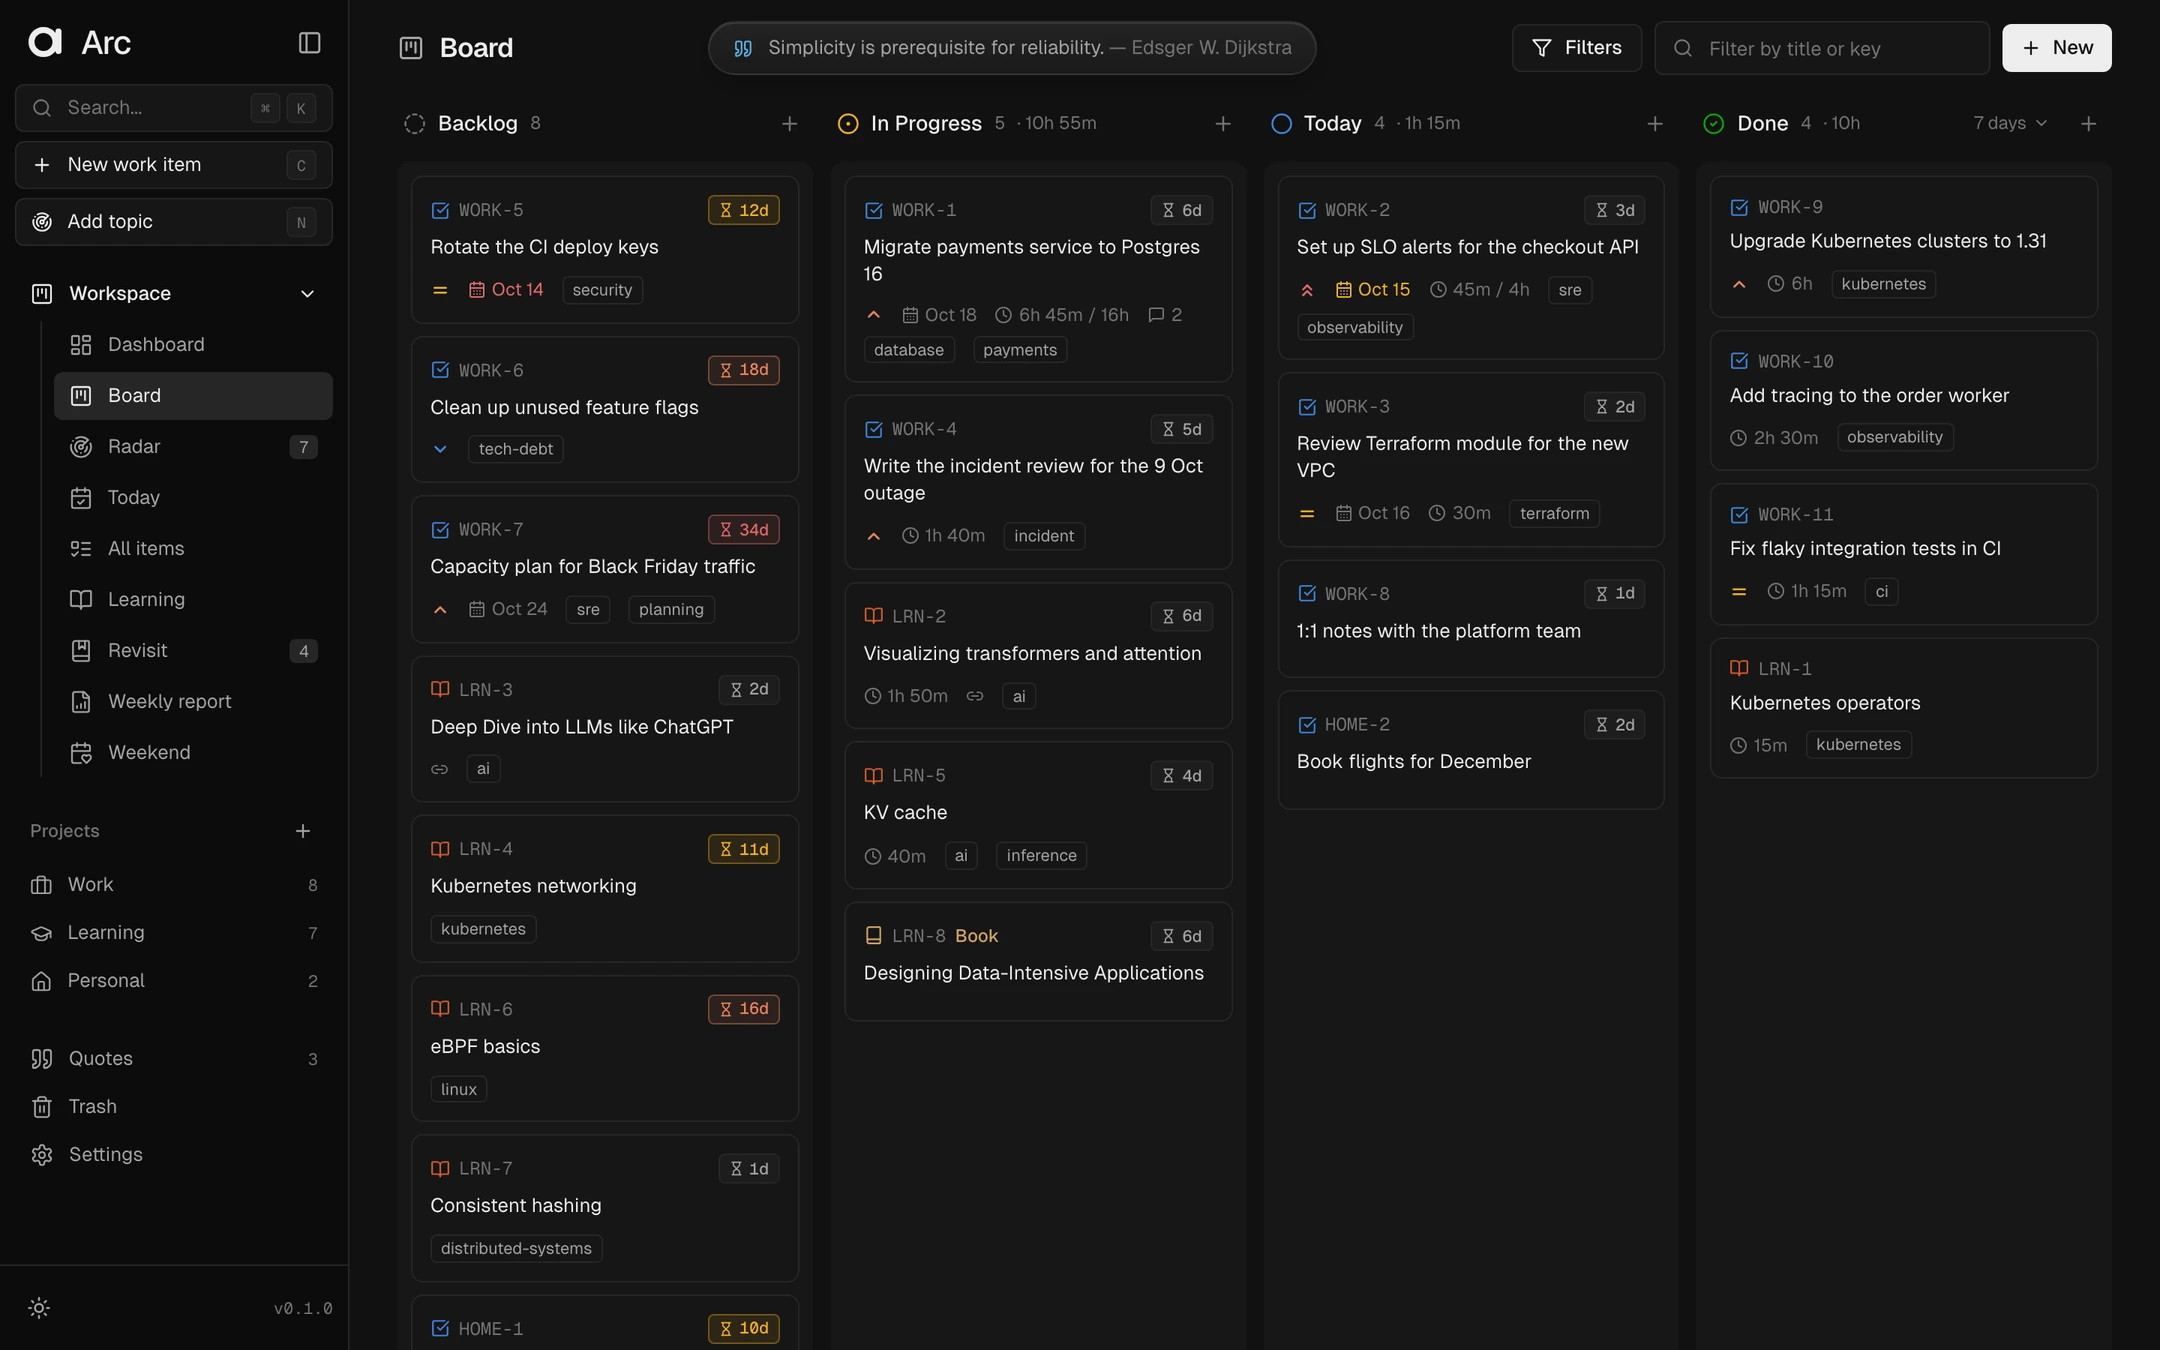
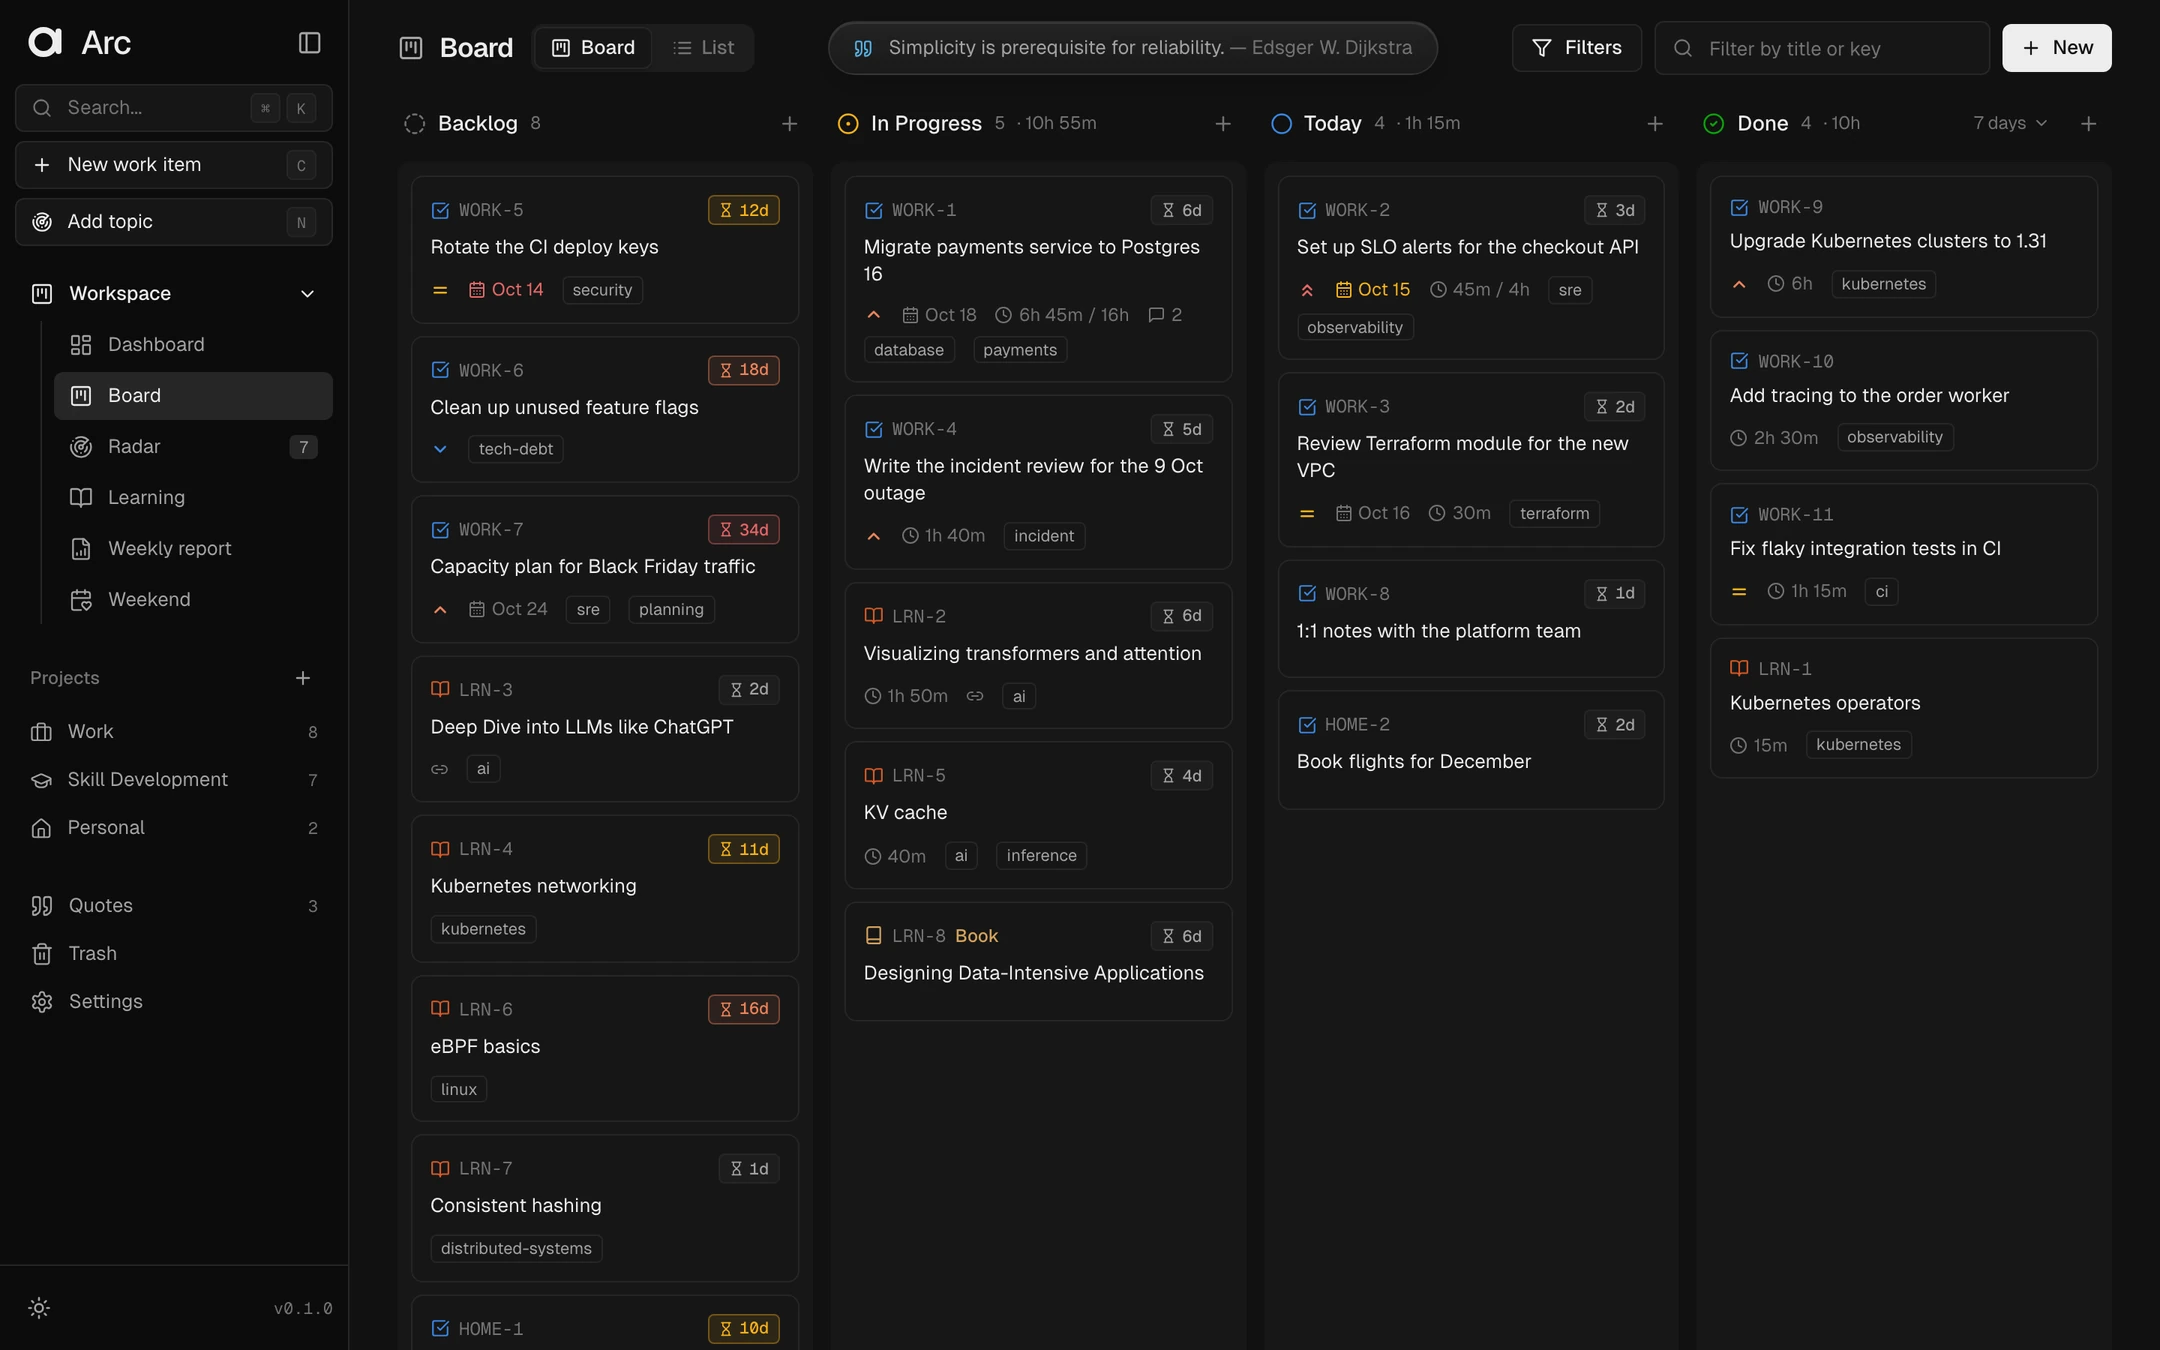
Reorg 3/3: Needs attention strip and Radar review on the Dashboard
- Needs attention: overdue items, items waiting 30+ days (new stale_open
  count in the overview) and Radar topics to review, one click each.
  Hidden when nothing needs you.
- Review Radar: open topics one at a time, oldest first, with To Topics
  (a Learning ticket in Skill Development), To Revisit, Dismiss and Later.
- README: the Dashboard, Board / List, Learning tabs and item types are
  described as they are now; screenshots recaptured for the new sidebar.

Sidebar is now Dashboard, Board, Radar, Learning, Weekly report, Weekend
(when on); Quotes, Trash and Settings below. Revert points: tags
before-reorg, reorg-1, reorg-2.

diff --git a/frontend/src/components/Attention.tsx b/frontend/src/components/Attention.tsx
@@ -1,0 +1,133 @@
+/** Dashboard helpers: a "Needs attention" strip and a one-at-a-time Radar review. */
+import { useMutation } from "@tanstack/react-query";
+import { AlertCircle, ArrowRight, BookMarked, GraduationCap, Hourglass, Radar as RadarIcon, SkipForward, X } from "lucide-react";
+import { useState } from "react";
+import { Link } from "react-router-dom";
+import { api, type Overview } from "../lib/api";
+import { useJots, useProjects, useRefreshItems } from "../lib/hooks";
+import { hostOf, timeAgo } from "../lib/meta";
+import { Panel } from "./dash";
+import { Button, useToast } from "./ui";
+
+/** One line with what needs you today. Hidden when nothing does. */
+export function AttentionStrip({ now }: { now: Overview | undefined }) {
+  if (!now) return null;
+  const chips = [
+    now.overdue > 0 && { to: "/list", icon: AlertCircle, tone: "text-critical", text: `${now.overdue} overdue` },
+    now.stale_open > 0 && { to: "/list", icon: Hourglass, tone: "text-critical", text: `${now.stale_open} waiting 30+ days` },
+    now.inbox_open > 0 && { to: "#radar-review", icon: RadarIcon, tone: "text-accent", text: `${now.inbox_open} Radar topics to review` },
+  ].filter(Boolean) as { to: string; icon: typeof AlertCircle; tone: string; text: string }[];
+  if (!chips.length) return null;
+  return (
+    <div className="flex flex-wrap items-center gap-2 rounded-lg border border-line bg-surface px-4 py-2.5">
+      <span className="mr-1 text-xs font-medium text-fg-3">Needs attention</span>
+      {chips.map((c) =>
+        c.to.startsWith("#") ? (
+          <a
+            key={c.text}
+            href={c.to}
+            onClick={(e) => {
+              e.preventDefault();
+              document.getElementById(c.to.slice(1))?.scrollIntoView({ behavior: "smooth", block: "center" });
+            }}
+            className="flex h-7 items-center gap-1.5 rounded-md border border-line px-2.5 text-[13px] text-fg-2 hover:border-line-strong hover:text-fg"
+          >
+            <c.icon size={13} className={c.tone} /> {c.text}
+          </a>
+        ) : (
+          <Link
+            key={c.text}
+            to={c.to}
+            className="flex h-7 items-center gap-1.5 rounded-md border border-line px-2.5 text-[13px] text-fg-2 hover:border-line-strong hover:text-fg"
+          >
+            <c.icon size={13} className={c.tone} /> {c.text}
+          </Link>
+        ),
+      )}
+    </div>
+  );
+}
+
+/**
+ * Review Radar topics one at a time, oldest first: send it to Topics (a Learning ticket in the
+ * Skill Development project), keep it on Revisit, dismiss it, or skip it for now.
+ */
+export function RadarReview() {
+  const { data: jots = [] } = useJots();
+  const { data: projects = [] } = useProjects();
+  const refresh = useRefreshItems();
+  const toast = useToast();
+  const [skipped, setSkipped] = useState<number[]>([]);
+
+  const queue = jots.filter((j) => j.status === "open").sort((a, b) => a.created_at.localeCompare(b.created_at));
+  const pending = queue.filter((j) => !skipped.includes(j.id));
+  const jot = pending[0] ?? null;
+  const learning = projects.find((p) => p.key === "LRN" && !p.archived) ?? projects.find((p) => !p.archived);
+
+  const act = useMutation({
+    mutationFn: async (action: "topic" | "revisit" | "dismiss") => {
+      if (!jot) return;
+      if (action === "topic") await api.post(`/jots/${jot.id}/convert`, { project_id: learning!.id, type: "learning", status: "backlog" });
+      if (action === "revisit") await api.post(`/jots/${jot.id}/revise`);
+      if (action === "dismiss") await api.patch(`/jots/${jot.id}`, { status: "archived" });
+      return action;
+    },
+    onSuccess: (action) => {
+      refresh();
+      toast(action === "topic" ? "Added to Topics" : action === "revisit" ? "Added to Revisit" : "Topic dismissed");
+    },
+    onError: (e: Error) => toast(e.message, "error"),
+  });
+
+  if (!queue.length) return null;
+  return (
+    <div id="radar-review" className="scroll-mt-4">
+      <Panel
+        title={`Review Radar · ${queue.length}`}
+        action={
+          <Link to="/radar" className="flex items-center gap-1 text-xs text-fg-3 hover:text-fg">
+            Radar <ArrowRight size={12} />
+          </Link>
+        }
+      >
+        {jot ? (
+          <div key={jot.id} className="anim-fade">
+            <p className="text-[15px] font-medium leading-snug">{jot.body}</p>
+            <p className="mt-1 flex flex-wrap gap-x-2 text-xs text-fg-3">
+              <span>{timeAgo(jot.created_at)}</span>
+              {jot.url && <span>· {hostOf(jot.url)}</span>}
+              {jot.tags.map((t) => (
+                <span key={t}>#{t}</span>
+              ))}
+            </p>
+            {jot.details && <p className="mt-2 line-clamp-3 text-[13px] leading-relaxed text-fg-2">{jot.details}</p>}
+            <div className="mt-4 grid grid-cols-2 gap-2">
+              <Button size="sm" variant="primary" icon={<GraduationCap size={13} />} disabled={act.isPending || !learning} onClick={() => act.mutate("topic")}>
+                To Topics
+              </Button>
+              <Button size="sm" icon={<BookMarked size={13} />} disabled={act.isPending} onClick={() => act.mutate("revisit")}>
+                To Revisit
+              </Button>
+              <Button size="sm" variant="ghost" icon={<X size={13} />} disabled={act.isPending} onClick={() => act.mutate("dismiss")}>
+                Dismiss
+              </Button>
+              <Button size="sm" variant="ghost" icon={<SkipForward size={13} />} onClick={() => setSkipped([...skipped, jot.id])}>
+                Later
+              </Button>
+            </div>
+            <p className="mt-3 text-right text-[11px] tabular-nums text-fg-3">
+              {queue.length - pending.length + 1} of {queue.length}
+            </p>
+          </div>
+        ) : (
+          <div className="py-4 text-center text-[13px] text-fg-3">
+            You skipped the rest for now.{" "}
+            <button onClick={() => setSkipped([])} className="text-accent hover:underline">
+              Start over
+            </button>
+          </div>
+        )}
+      </Panel>
+    </div>
+  );
+}

diff --git a/frontend/src/pages/Dashboard.tsx b/frontend/src/pages/Dashboard.tsx
@@ -2,6 +2,7 @@ import { useQuery } from "@tanstack/react-query";
 import { ArrowRight } from "lucide-react";
 import type { ReactNode } from "react";
 import { Link } from "react-router-dom";
+import { AttentionStrip, RadarReview } from "../components/Attention";
 import { ItemRows, Panel, Stat, StatRow } from "../components/dash";
 import { useActions } from "../components/Layout";
 import { RevisePreview } from "../components/RevisePreview";
@@ -37,6 +38,8 @@ export default function Dashboard() {
       <div className="space-y-5 px-4 md:px-6 lg:px-8">
         <p className="-mt-3 text-[13px] text-fg-3">{fmtDate(todayIso(), { weekday: "long", month: "long", day: "numeric" })}</p>
 
+        <AttentionStrip now={now} />
+
         {showWeekend && <WeekendTodayPanel action={<PanelLink to="/weekend">Weekend plan</PanelLink>} />}
 
         <StatRow>
@@ -61,6 +64,8 @@ export default function Dashboard() {
           </div>
 
           <div className="space-y-5">
+            <RadarReview />
+
             <Panel title="Waiting longest" action={<PanelLink to="/list">List view</PanelLink>}>
               <ItemRows items={now?.oldest_open.slice(0, 5) ?? []} onOpen={openItem} empty="Nothing open" />
             </Panel>

diff --git a/frontend/src/lib/api.ts b/frontend/src/lib/api.ts
@@ -114,6 +114,8 @@ export interface Overview {
   previous: RangeStats;
   open: number;
   inbox_open: number;
+  /** Open items waiting 30+ days since they were created. */
+  stale_open: number;
   revise_open: number;
   overdue: number;
   by_status: { status: Status; count: number }[];

diff --git a/backend/app/main.py b/backend/app/main.py
@@ -1087,6 +1087,10 @@ def stats_overview(days: int = Query(default=30, ge=1, le=365), conn=Depends(get
         "revise_open": conn.execute("SELECT count(*) FROM revisions WHERE status = 'active'").fetchone()[0],
         "overdue": conn.execute(
             "SELECT count(*) FROM live_items WHERE status != 'done' AND due_date < ?", (t,)).fetchone()[0],
+        # Open items waiting 30+ days since they were created (the red pending badge).
+        "stale_open": conn.execute(
+            "SELECT count(*) FROM live_items WHERE status != 'done' AND date(created_at) <= date(?, '-30 days')",
+            (t,)).fetchone()[0],
         "by_status": rows(conn.execute("SELECT status, count(*) AS count FROM live_items GROUP BY status")),
         "oldest_open": [_decode(r) for r in rows(conn.execute(
             ITEM_SELECT + " WHERE i.status != 'done' AND i.type != 'note' ORDER BY i.created_at LIMIT 6"))],

diff --git a/backend/tests/test_api.py b/backend/tests/test_api.py
@@ -590,3 +590,13 @@ def test_notes_from_before_the_rename_and_note_ids_command(client):
     assert maintenance.note_ids("arc") == 1 and "arc_id: LRN-1" in new_note.read_text()
     assert maintenance.note_ids("arc") == 0  # nothing left to change
     assert client.get("/api/backups").status_code == 200
+
+
+def test_overview_counts_items_waiting_30_days(client):
+    import sqlite3
+
+    old = _learning(client, title="Old topic")
+    _learning(client, title="New topic")
+    with sqlite3.connect(client.vault.parent / "data" / "arc.db") as conn:
+        conn.execute("UPDATE items SET created_at = '2020-01-01T09:00:00' WHERE id = ?", (old["id"],))
+    assert client.get("/api/stats/overview?days=1").json()["stale_open"] == 1

diff --git a/README.md b/README.md
@@ -65,10 +65,8 @@ Use it to plan your day, track time on tasks like in Jira, keep a list of things
 
 ### Work
 
-- **Board**: Kanban board with Backlog, In Progress, Today and Done. Drag cards between columns. The Done column shows items completed in the last 7 days by default; switch it to Today, 30 days or Lifetime from its header. Each open card shows how many days it has been pending: neutral at first, amber after 10 days, orange after 15 and red after 30.
-- **Today**: today's plan, overdue items, a quick pick from the backlog, a "Keep in mind" list from Revisit, and an end-of-day review.
-- **All items**: a sortable table of every item with filters.
-- **Item types**: tasks, learning topics and notes.
+- **Board**: Kanban board with Backlog, In Progress, Today and Done, and a **Board / List** switch in its header. List is a sortable table of every item with filters. Drag cards between columns. The Done column shows items completed in the last 7 days by default; switch it to Today, 30 days or Lifetime from its header. Each open card shows how many days it has been pending: neutral at first, amber after 10 days, orange after 15 and red after 30.
+- **Item types**: tasks and learning topics. (Notes are retired: use Radar, Revisit or Engineering Blogs. Older notes still show.)
 - **Item panel**: title, description, checklist, comments, work log and history. Properties: status, priority, type, project, due date, repeat and labels.
 - **Time tracking (Jira style)**: original estimate, "Log work" with `2h 30m`, `45m` or `1d` (1d = 8h), a start/stop timer, and a work log per item.
 - **Recurring items**: daily, weekdays, weekly or monthly. When you mark one Done, Arc makes the next one.
@@ -77,7 +75,7 @@ Use it to plan your day, track time on tasks like in Jira, keep a list of things
 ### Learning
 
 - **Radar**: topics you hear about, such as vLLM, Langfuse or tmux. Press `N` anywhere to add one. Topics stay off the board. Review each one, then create a Learning or Task ticket from it, move it to Revisit, or dismiss it. Its link and `#tags` become the ticket link and labels.
-- **Learning** has three tabs: **Topics** (what you want to study), **Engineering Blogs** (blog posts and articles you read and keep) and **Books**.
+- **Learning** has four tabs: **Topics** (what you want to study), **Revisit** (what you learned and want to keep fresh), **Engineering Blogs** (blog posts and articles you read and keep) and **Books**. New installs name the learning project **Skill Development** (key `LRN`).
 - **Topics**: things you want to learn, with status and time tracking. Type a topic, and add a video or course link if you have one (topics moved from Radar land here too). A topic with a link shows its thumbnail. Paste a link and Arc fills in the title (the real YouTube video title, or the page title for other links). Thumbnails are downloaded once, shrunk to small WebP images and cached in `data/thumbs/`, so the page loads fast on a phone too.
   If you paste a blog or article link into Topics, Arc offers to save it to Engineering Blogs instead.
 - **Engineering Blogs** (Learning → Engineering Blogs): good blog posts and articles. "Add blog post" takes a link and fills in the title, site, author and summary from the page. Add tags and notes, then move each one through To read, Reading and Read, or star it as a favourite. Search and tag filters find old ones.
@@ -88,7 +86,7 @@ Use it to plan your day, track time on tasks like in Jira, keep a list of things
 - **Books**: books to read, with covers. "Add book" searches Open Library by title or author and fills in the author, year, pages and cover (or add one by hand). Track the page you are on, move books through Want to read, Reading and Finished, and keep notes.
   - "Add to board" puts a book on the board as a Learning ticket, marked **Book** with a book icon, so you can plan it and log time on it. Moving the ticket moves the book: In Progress means Reading, Done means Finished.
   - Deleting a book keeps its ticket.
-- **Revisit**: things you learned and want to keep in front of you. Each topic has notes, an optional question to test yourself (the notes stay hidden until you show them), a link and a priority.
+- **Revisit** (Learning → Revisit): things you learned and want to keep in front of you. Each topic has notes, an optional question to test yourself (the notes stay hidden until you show them), a link and a priority.
   - Add a topic with `R`, from any ticket, from Radar, or when you mark a Learning ticket Done.
   - Start a session timer or log time by hand. Each topic shows when you last revisited it, the total time and the number of sessions.
   - "Mark as revisited" moves the topic to the Revisited tab. "Revisit again" brings it back.
@@ -107,7 +105,11 @@ Use it to plan your day, track time on tasks like in Jira, keep a list of things
 
 ### Overview
 
-- **Dashboard**: where things stand right now. Open items, in progress, overdue, time logged today, topics to review, today's plan, items waiting longest, the Revisit list and a short summary of this week.
+- **Dashboard**: where things stand right now, and your day.
+  - **Needs attention**: overdue items, items waiting 30+ days and Radar topics to review, one click each.
+  - **Today**: the day's plan (overdue, planned, done). Tick items off, start a timer, log work, add an item, or **Plan from backlog**.
+  - **Review Radar**: Radar topics one at a time, oldest first: **To Topics**, **To Revisit**, **Dismiss** or **Later**.
+  - Open items, in progress, overdue, time logged today, topics to review, items waiting longest, the Revisit list, this week, and the **end-of-day review**.
 - **Weekly report**: what happened in a week. Time per day, time per project, completed and carried-over items, and daily reviews. Use the arrows to go back to earlier weeks.
 
 ### Other
